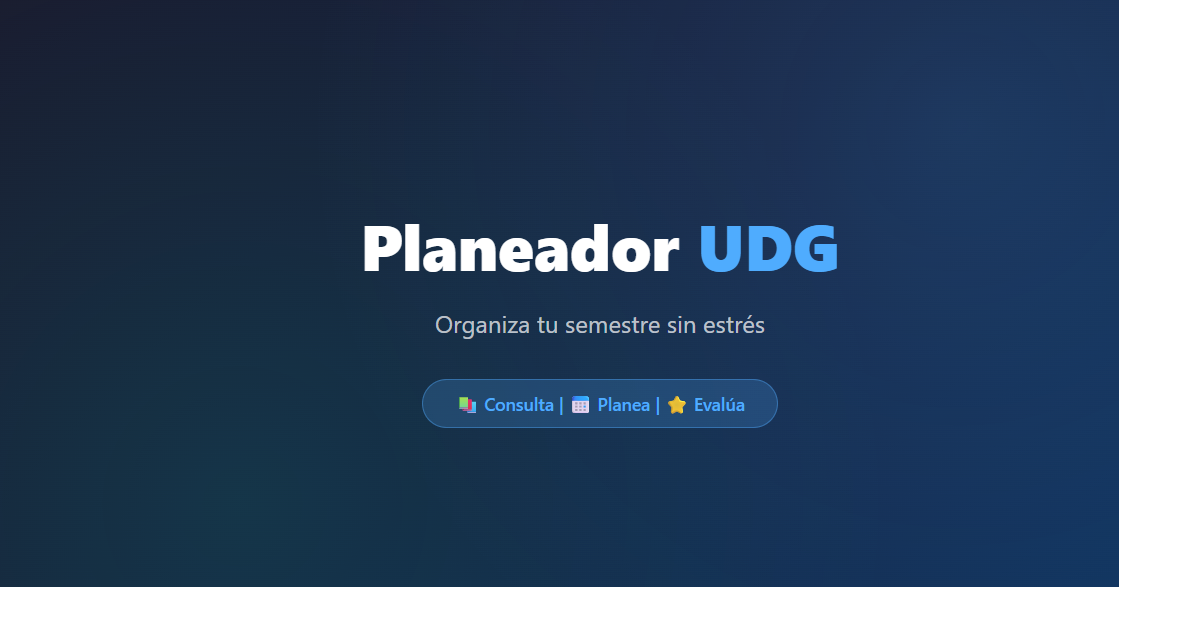
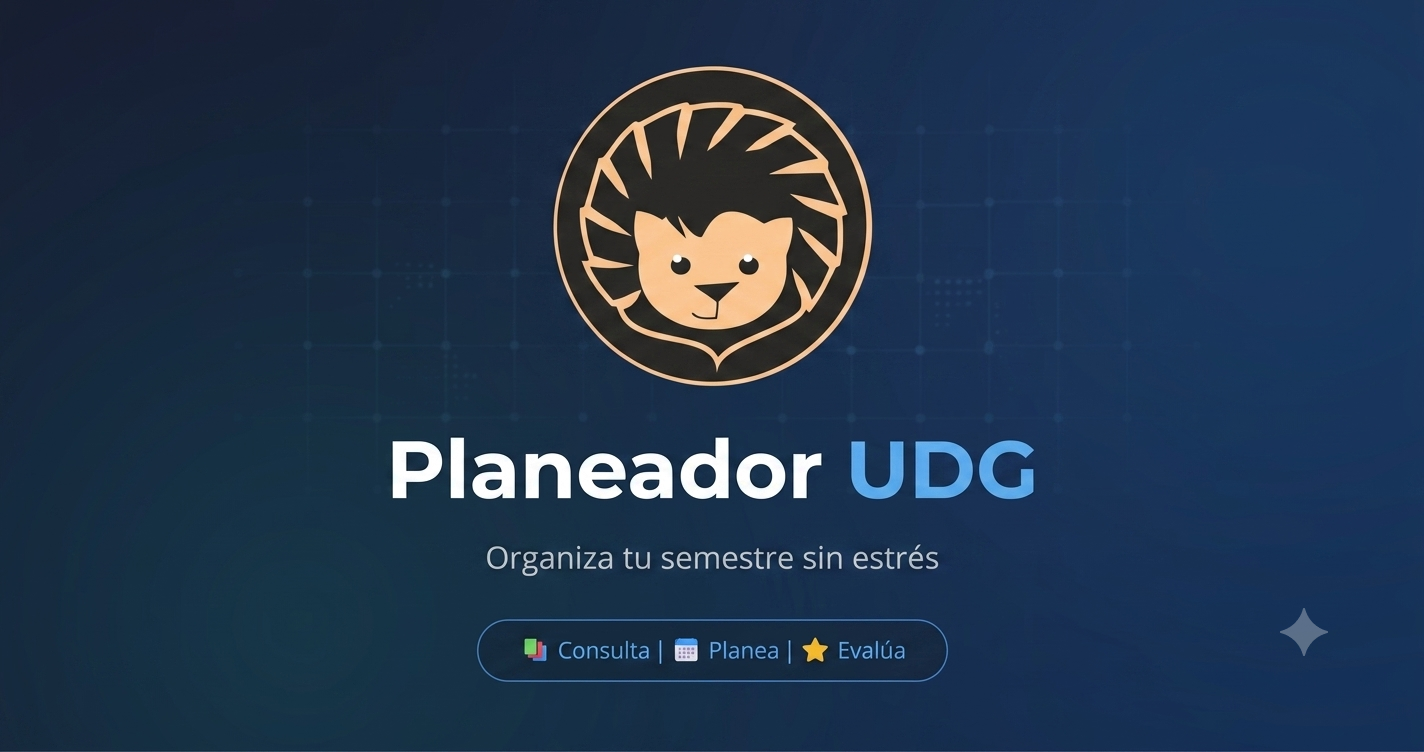
feat(a11y): mejorar accesibilidad WCAG 2.2 y corregir error de Vercel dev
- Agrega skip link "Saltar al contenido principal" con estilos y anclaje
- Implementa focus trap y roles ARIA (dialog, modal, radiogroup) en RatingForm
- Añade navegación por teclado en sugerencias de carrera y estrellas de rating
- Corrige contraste de color en enlaces del navbar (4.8:1) y botones CTA
- Conecta etiquetas HTML con inputs mediante htmlFor/id en formularios
- Agrega prefers-reduced-motion en animaciones del footer y a nivel global
- Marca SVGs decorativos como aria-hidden="true" en navegación
- Agrega botón hamburguesa con aria-expanded para menú móvil
- Añade clase utilitaria .visually-hidden para lectores de pantalla
- Corrige error de Vite 7 + Vercel dev proxy (vite:import-analysis)
- Actualiza og-image.png

diff --git a/src/components/RatingForm.jsx b/src/components/RatingForm.jsx
@@ -1,4 +1,4 @@
-import React, { useState, useEffect } from 'react';
+import React, { useState, useEffect, useRef } from 'react';
 import { createPortal } from 'react-dom';
 import { addRating } from '../services/professorService';
 import { updateMyRating, hasUserRatedProfessor } from '../services/myRatingsService';
@@ -34,6 +34,7 @@ const AVAILABLE_TAGS = [
 const RatingForm = ({ professorId, professorName, onClose, onRatingEscaped, editingRating }) => {
     const { user: currentUser } = useAuth();
     const isEditing = !!editingRating;
+    const contentRef = useRef(null);
     
     // Cargar datos existentes si está editando
     const [stars, setStars] = useState(editingRating?.stars || 8);
@@ -140,11 +141,53 @@ const RatingForm = ({ professorId, professorName, onClose, onRatingEscaped, edit
         };
     }, []);
 
+    // Focus trap: mantener foco dentro del modal
+    useEffect(() => {
+        const content = contentRef.current;
+        if (!content) return;
+
+        // Enfocar el primer elemento interactivo (botón cerrar)
+        const closeBtn = content.querySelector('.rating-form-close-alt');
+        if (closeBtn) closeBtn.focus();
+
+        const handleTabKey = (e) => {
+            const focusableEls = content.querySelectorAll(
+                'button, [href], input, select, textarea, [tabindex]:not([tabindex="-1"])'
+            );
+            const firstEl = focusableEls[0];
+            const lastEl = focusableEls[focusableEls.length - 1];
+
+            if (e.key === 'Tab') {
+                if (e.shiftKey) {
+                    if (document.activeElement === firstEl) {
+                        e.preventDefault();
+                        lastEl.focus();
+                    }
+                } else {
+                    if (document.activeElement === lastEl) {
+                        e.preventDefault();
+                        firstEl.focus();
+                    }
+                }
+            }
+        };
+
+        content.addEventListener('keydown', handleTabKey);
+        return () => content.removeEventListener('keydown', handleTabKey);
+    }, []);
+
     const isAuthenticated = !!currentUser;
 
     return createPortal(
         <div className="rating-form-overlay" onClick={handleCloseForm}>
-            <div className="rating-form-content animate-pop-in" onClick={e => e.stopPropagation()}>
+            <div 
+                className="rating-form-content animate-pop-in" 
+                onClick={e => e.stopPropagation()}
+                ref={contentRef}
+                role="dialog"
+                aria-modal="true"
+                aria-label={isEditing ? `Editar evaluación de ${professorName}` : `Evaluar a ${professorName}`}
+            >
                 <button 
                     type="button" 
                     className="rating-form-close-alt"
@@ -192,12 +235,22 @@ const RatingForm = ({ professorId, professorName, onClose, onRatingEscaped, edit
                     <form onSubmit={handleSubmit}>
                         <div className="form-group">
                             <label>Tu calificación general (1-10)</label>
-                            <div className="star-rating-input star-rating-10">
+                            <div className="star-rating-input star-rating-10" role="radiogroup" aria-label="Calificación del 1 al 10">
                                 {[1, 2, 3, 4, 5, 6, 7, 8, 9, 10].map(num => (
                                     <span 
                                         key={num} 
+                                        role="radio"
+                                        tabIndex={num === stars ? 0 : -1}
+                                        aria-checked={num <= stars}
+                                        aria-label={`${num} de 10`}
                                         className={`star-input-item ${num <= stars ? 'active' : ''}`}
                                         onClick={() => setStars(num)}
+                                        onKeyDown={(e) => {
+                                            if (e.key === 'Enter' || e.key === ' ') {
+                                                e.preventDefault();
+                                                setStars(num);
+                                            }
+                                        }}
                                     >
                                         {num}
                                     </span>

diff --git a/src/App.css b/src/App.css
@@ -19,6 +19,42 @@
 }
 
 /* ---------------------------------- */
+/* SKIP LINK - Saltar navegación      */
+/* ---------------------------------- */
+.skip-link {
+    position: absolute;
+    top: -100%;
+    left: 0;
+    z-index: 10000;
+    padding: 0.75rem 1.5rem;
+    background: var(--primary-color);
+    color: #fff;
+    font-weight: 700;
+    font-size: 0.9rem;
+    text-decoration: none;
+    border-radius: 0 0 8px 0;
+    transition: top 0.2s;
+}
+
+.skip-link:focus {
+    top: 0;
+}
+
+/* ---------------------------------- */
+/* PREFERS-REDUCED-MOTION             */
+/* ---------------------------------- */
+@media (prefers-reduced-motion: reduce) {
+    *,
+    *::before,
+    *::after {
+        animation-duration: 0.01ms !important;
+        animation-iteration-count: 1 !important;
+        transition-duration: 0.01ms !important;
+        scroll-behavior: auto !important;
+    }
+}
+
+/* ---------------------------------- */
 /* 1. DEFINICIÓN DE TEMAS Y VARIABLES */
 /* ---------------------------------- */
 :root {

diff --git a/src/components/Navbar.jsx b/src/components/Navbar.jsx
@@ -34,6 +34,16 @@ const Navbar = React.memo(({ theme, toggleTheme, showNewQuery, onNewQuery }) => 
         
         {/* --- SECCIÓN IZQUIERDA: LOGO --- */}
         <div className="navbar-left">
+            <button 
+                className={`hamburger-btn ${isMenuOpen ? 'open' : ''}`}
+                onClick={toggleMenu}
+                aria-label={isMenuOpen ? 'Cerrar menú de navegación' : 'Abrir menú de navegación'}
+                aria-expanded={isMenuOpen}
+            >
+                <span className="bar"></span>
+                <span className="bar"></span>
+                <span className="bar"></span>
+            </button>
             <Link to="/" className="navbar-logo" onClick={closeMenu}>
                 <img src={udgLogo} alt="Logo UDG" className="logo-img" />
                 <div className="logo-text">
@@ -49,7 +59,7 @@ const Navbar = React.memo(({ theme, toggleTheme, showNewQuery, onNewQuery }) => 
                 className={`nav-link ${location.pathname === '/planear' ? 'active' : ''}`}
                 onClick={closeMenu}
             >
-                <svg width="20" height="20" fill="none" viewBox="0 0 24 24" stroke="currentColor">
+                <svg width="20" height="20" fill="none" viewBox="0 0 24 24" stroke="currentColor" aria-hidden="true">
                     <path strokeLinecap="round" strokeLinejoin="round" strokeWidth={2} d="M8 7V3m8 4V3m-9 8h10M5 21h14a2 2 0 002-2V7a2 2 0 00-2-2H5a2 2 0 00-2 2v12a2 2 0 002 2z" />
                 </svg>
                 <span>Planificador</span>
@@ -61,7 +71,7 @@ const Navbar = React.memo(({ theme, toggleTheme, showNewQuery, onNewQuery }) => 
                 title="Ver beneficios para estudiantes"
                 onClick={closeMenu}
             >
-                <svg width="20" height="20" fill="none" viewBox="0 0 24 24" stroke="currentColor">
+                <svg width="20" height="20" fill="none" viewBox="0 0 24 24" stroke="currentColor" aria-hidden="true">
                     <path strokeLinecap="round" strokeLinejoin="round" strokeWidth={2} d="M12 8v13m0-13V6a2 2 0 112 2h-2zm0 0V5.5A2.5 2.5 0 109.5 8H12zm-7 4h14M5 12a2 2 0 110-4h14a2 2 0 110 4M5 12v7a2 2 0 002 2h10a2 2 0 002-2v-7" />
                 </svg>
                 <span>Beneficios</span>
@@ -72,7 +82,7 @@ const Navbar = React.memo(({ theme, toggleTheme, showNewQuery, onNewQuery }) => 
                     className={`nav-link ${location.pathname === '/profesores' ? 'active' : ''}`}
                     onClick={closeMenu}
                 >
-                    <svg width="20" height="20" fill="none" viewBox="0 0 24 24" stroke="currentColor">
+                    <svg width="20" height="20" fill="none" viewBox="0 0 24 24" stroke="currentColor" aria-hidden="true">
                         <path strokeLinecap="round" strokeLinejoin="round" strokeWidth={2} d="M12 4.354a4 4 0 110 5.292M15 21H3v-1a6 6 0 0112 0v1zm0 0h6v-1a6 6 0 00-9-5.197M13 7a4 4 0 11-8 0 4 4 0 018 0z" />
                     </svg>
                     <span>Profesores</span>
@@ -108,7 +118,7 @@ const Navbar = React.memo(({ theme, toggleTheme, showNewQuery, onNewQuery }) => 
                         )}
                     </Link>
                     <button onClick={handleLogout} className="btn-logout" title="Cerrar Sesión">
-                        <svg width="20" height="20" fill="none" viewBox="0 0 24 24" stroke="currentColor">
+                        <svg width="20" height="20" fill="none" viewBox="0 0 24 24" stroke="currentColor" aria-hidden="true">
                             <path strokeLinecap="round" strokeLinejoin="round" strokeWidth={2} d="M17 16l4-4m0 0l-4-4m4 4H7m6 4v1a3 3 0 01-3 3H6a3 3 0 01-3-3V7a3 3 0 013-3h4a3 3 0 013 3v1" />
                         </svg>
                     </button>
@@ -119,13 +129,20 @@ const Navbar = React.memo(({ theme, toggleTheme, showNewQuery, onNewQuery }) => 
         </div>
       </div>
 
+      {/* Overlay para menú móvil */}
+      <div 
+        className={`nav-overlay ${isMenuOpen ? 'active' : ''}`} 
+        onClick={closeMenu}
+        aria-hidden="true"
+      ></div>
+
       {/* --- BARRA DE NAVEGACIÓN INFERIOR (Solo móvil) --- */}
       <div className="mobile-bottom-nav">
         <Link 
             to="/" 
             className={`mobile-nav-item ${location.pathname === '/' ? 'active' : ''}`}
         >
-            <svg className="mobile-nav-icon" width="22" height="22" fill="none" viewBox="0 0 24 24" stroke="currentColor" strokeWidth={2}>
+            <svg className="mobile-nav-icon" width="22" height="22" fill="none" viewBox="0 0 24 24" stroke="currentColor" strokeWidth={2} aria-hidden="true">
                 <path strokeLinecap="round" strokeLinejoin="round" d="M3 12l2-2m0 0l7-7 7 7M5 10v10a1 1 0 001 1h3m10-11l2 2m-2-2v10a1 1 0 01-1 1h-3m-6 0a1 1 0 001-1v-4a1 1 0 011-1h2a1 1 0 011 1v4a1 1 0 001 1m-6 0h6" />
             </svg>
             <span className="mobile-nav-label">Inicio</span>
@@ -135,7 +152,7 @@ const Navbar = React.memo(({ theme, toggleTheme, showNewQuery, onNewQuery }) => 
             to="/planear" 
             className={`mobile-nav-item ${location.pathname === '/planear' ? 'active' : ''}`}
         >
-            <svg className="mobile-nav-icon" width="22" height="22" fill="none" viewBox="0 0 24 24" stroke="currentColor" strokeWidth={2}>
+            <svg className="mobile-nav-icon" width="22" height="22" fill="none" viewBox="0 0 24 24" stroke="currentColor" strokeWidth={2} aria-hidden="true">
                 <path strokeLinecap="round" strokeLinejoin="round" d="M8 7V3m8 4V3m-9 8h10M5 21h14a2 2 0 002-2V7a2 2 0 00-2-2H5a2 2 0 00-2 2v12a2 2 0 002 2z" />
             </svg>
             <span className="mobile-nav-label">Planificar</span>
@@ -145,7 +162,7 @@ const Navbar = React.memo(({ theme, toggleTheme, showNewQuery, onNewQuery }) => 
             to="/profesores" 
             className={`mobile-nav-item ${location.pathname === '/profesores' ? 'active' : ''}`}
         >
-            <svg className="mobile-nav-icon" width="22" height="22" fill="none" viewBox="0 0 24 24" stroke="currentColor" strokeWidth={2}>
+            <svg className="mobile-nav-icon" width="22" height="22" fill="none" viewBox="0 0 24 24" stroke="currentColor" strokeWidth={2} aria-hidden="true">
                 <path strokeLinecap="round" strokeLinejoin="round" d="M12 4.354a4 4 0 110 5.292M15 21H3v-1a6 6 0 0112 0v1zm0 0h6v-1a6 6 0 00-9-5.197M13 7a4 4 0 11-8 0 4 4 0 018 0z" />
             </svg>
             <span className="mobile-nav-label">Profesores</span>
@@ -155,7 +172,7 @@ const Navbar = React.memo(({ theme, toggleTheme, showNewQuery, onNewQuery }) => 
             to="/beneficios" 
             className={`mobile-nav-item ${location.pathname === '/beneficios' ? 'active' : ''}`}
         >
-            <svg className="mobile-nav-icon" width="22" height="22" fill="none" viewBox="0 0 24 24" stroke="currentColor" strokeWidth={2}>
+            <svg className="mobile-nav-icon" width="22" height="22" fill="none" viewBox="0 0 24 24" stroke="currentColor" strokeWidth={2} aria-hidden="true">
                 <path strokeLinecap="round" strokeLinejoin="round" d="M12 8v13m0-13V6a2 2 0 112 2h-2zm0 0V5.5A2.5 2.5 0 109.5 8H12zm-7 4h14M5 12a2 2 0 110-4h14a2 2 0 110 4M5 12v7a2 2 0 002 2h10a2 2 0 002-2v-7" />
             </svg>
             <span className="mobile-nav-label">Beneficios</span>
@@ -166,7 +183,7 @@ const Navbar = React.memo(({ theme, toggleTheme, showNewQuery, onNewQuery }) => 
                 to="/dashboard" 
                 className={`mobile-nav-item ${location.pathname === '/dashboard' || location.pathname === '/mis-horarios' ? 'active' : ''}`}
             >
-                <svg className="mobile-nav-icon" width="22" height="22" fill="none" viewBox="0 0 24 24" stroke="currentColor" strokeWidth={2}>
+                <svg className="mobile-nav-icon" width="22" height="22" fill="none" viewBox="0 0 24 24" stroke="currentColor" strokeWidth={2} aria-hidden="true">
                     <path strokeLinecap="round" strokeLinejoin="round" d="M16 7a4 4 0 11-8 0 4 4 0 018 0zM12 14a7 7 0 00-7 7h14a7 7 0 00-7-7z" />
                 </svg>
                 <span className="mobile-nav-label">Mi Perfil</span>

diff --git a/src/components/ConsultaForm.jsx b/src/components/ConsultaForm.jsx
@@ -296,7 +296,7 @@ export function ConsultaForm({ onConsultar, loading, initialParams = {} }) {
             </div>
 
             <div className="form-group" ref={wrapperRef} style={{ position: 'relative' }}>
-                <label htmlFor="carrera">Carrera</label>
+                <label htmlFor="carrera-search">Carrera</label>
                 <input
                     type="text"
                     id="carrera-search"
@@ -313,11 +313,20 @@ export function ConsultaForm({ onConsultar, loading, initialParams = {} }) {
                 />
                 
                 {mostrarSugerencias && carrerasFiltradas.length > 0 && (
-                    <ul className="suggestions-list animate-fade-in">
-                        {carrerasFiltradas.map(carrera => (
+                    <ul className="suggestions-list animate-fade-in" role="listbox" aria-label="Carreras sugeridas">
+                        {carrerasFiltradas.map((carrera, index) => (
                             <li 
                                 key={carrera.id} 
+                                role="option"
+                                tabIndex={0}
+                                aria-selected={params.carrera === carrera.id}
                                 onClick={() => seleccionarCarrera(carrera)}
+                                onKeyDown={(e) => {
+                                    if (e.key === 'Enter' || e.key === ' ') {
+                                        e.preventDefault();
+                                        seleccionarCarrera(carrera);
+                                    }
+                                }}
                             >
                                 <span className="suggestion-id">{carrera.id}</span>
                                 <span className="suggestion-name">{carrera.name}</span>

diff --git a/src/index.css b/src/index.css
@@ -85,3 +85,18 @@ button:focus-visible {
     background-color: #f9f9f9;
   }
 }
+
+/* ---------------------------------- */
+/* CLASE VISUALLY-HIDDEN (accesibilidad) */
+/* ---------------------------------- */
+.visually-hidden {
+  position: absolute;
+  width: 1px;
+  height: 1px;
+  padding: 0;
+  margin: -1px;
+  overflow: hidden;
+  clip: rect(0, 0, 0, 0);
+  white-space: nowrap;
+  border: 0;
+}

diff --git a/vite.config.js b/vite.config.js
@@ -5,6 +5,21 @@ import { visualizer } from 'rollup-plugin-visualizer'
 // https://vitejs.dev/config/
 export default defineConfig({
   plugins: [
+    // Fix para Vercel dev: el proxy reescribe requests a /index.html,
+    // y Vite 7 intenta parsearlo como JS en vite:import-analysis.
+    // Este middleware reescribe /index.html a / antes de que Vite lo procese.
+    {
+      name: 'fix-vercel-dev-proxy',
+      apply: 'serve',
+      configureServer(server) {
+        server.middlewares.use((req, _res, next) => {
+          if (req.url && (req.url === '/index.html' || req.url.startsWith('/index.html?'))) {
+            req.url = '/' + req.url.slice('/index.html'.length);
+          }
+          next();
+        });
+      },
+    },
     react(),
     // Bundle analyzer: npm run build -- --mode analyze o ANALYZE=true npm run build
     process.env.ANALYZE && visualizer({

diff --git a/src/components/Footer.css b/src/components/Footer.css
@@ -176,3 +176,9 @@
   0%, 100% { transform: scale(1); }
   50% { transform: scale(1.2); }
 }
+
+@media (prefers-reduced-motion: reduce) {
+  .heart-icon {
+    animation: none;
+  }
+}

diff --git a/src/components/Navbar.css b/src/components/Navbar.css
@@ -98,11 +98,11 @@
 }
 
 .special-link {
-    color: #eab308; /* Amarillo */
+    color: #b45309; /* Amarillo oscuro accesible (contraste 4.8:1 sobre blanco) */
 }
 .special-link:hover {
-    color: #ca8a04;
-    background-color: rgba(234, 179, 8, 0.1);
+    color: #92400e;
+    background-color: rgba(180, 83, 9, 0.1);
 }
 
 /* --- DERECHA --- */

diff --git a/src/pages/HomePage.jsx b/src/pages/HomePage.jsx
@@ -130,8 +130,9 @@ export function HomePage() {
                             </div>
 
                             <div className="form-group">
-                                <label>Mensaje</label>
+                                <label htmlFor="feedback-message">Mensaje</label>
                                 <textarea
+                                    id="feedback-message"
                                     value={feedbackMessage}
                                     onChange={(e) => setFeedbackMessage(e.target.value)}
                                     placeholder={
@@ -145,8 +146,9 @@ export function HomePage() {
                             </div>
 
                             <div className="form-group">
-                                <label>Correo (opcional, para responderte)</label>
+                                <label htmlFor="feedback-email">Correo (opcional, para responderte)</label>
                                 <input
+                                    id="feedback-email"
                                     type="email"
                                     value={feedbackEmail}
                                     onChange={(e) => setFeedbackEmail(e.target.value)}

diff --git a/src/App.jsx b/src/App.jsx
@@ -32,9 +32,12 @@ function App() {
         // Esto permite que AuthContext pueda usar hooks de navegación si lo necesita.
         <AuthProvider>
             <div className="app-root">
+                <a href="#main-content" className="skip-link">
+                    Saltar al contenido principal
+                </a>
                 <Navbar theme={theme} toggleTheme={toggleTheme} />
                 
-                <main className="app-main">
+                <main className="app-main" id="main-content">
                     <Outlet context={{ theme }} />
                 </main>
                 

diff --git a/src/pages/HomePage.css b/src/pages/HomePage.css
@@ -74,7 +74,7 @@
 .feature-card-btn {
     margin-top: 1rem;
     padding: 0.5rem 1rem;
-    background: var(--primary-color);
+    background: var(--primary-color-hover);
     color: white;
     border: none;
     border-radius: 8px;